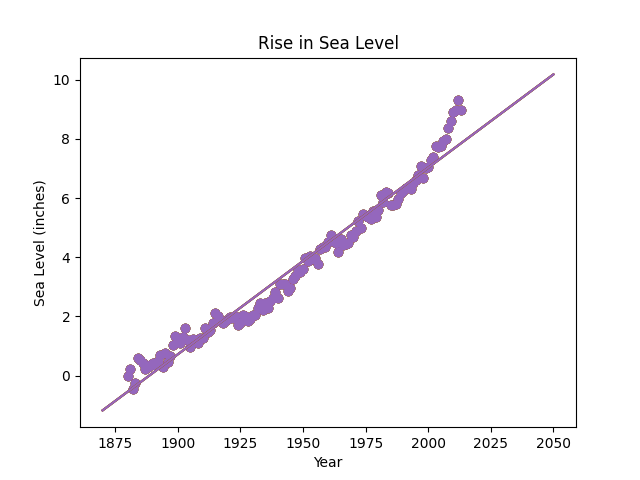
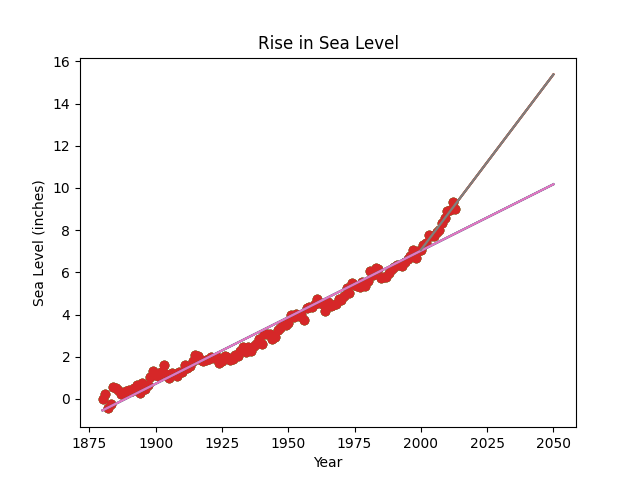
Finished what was needed for implementation

diff --git a/sea_level_predictor.py b/sea_level_predictor.py
@@ -16,12 +16,18 @@ def draw_plot():
     # Create first line of best fit
     slope, intercept, r, p, stderr = linregress(x, y)
 
-    x_extend = np.linspace(min(x) - 10, 2050, 100)
+    x_extend = pd.Series(range(1880, 2051))
     y_pred = slope*x_extend + intercept
     plt.plot(x_extend, y_pred)
 
     # Create second line of best fit
-
+    df_2000 = df[df['Year'].between(2000, 2014)]
+    x_2000 = df_2000['Year']
+    y_2000 = df_2000['CSIRO Adjusted Sea Level']
+    slope_2000, intercept_2000, r, p, stderr = linregress(x_2000, y_2000)
+    x_2000_extend = pd.Series(range(2000, 2051))
+    y_2000_pred = slope_2000*x_2000_extend + intercept_2000
+    plt.plot(x_2000_extend, y_2000_pred)
 
     # Add labels and title
     plt.title("Rise in Sea Level")
